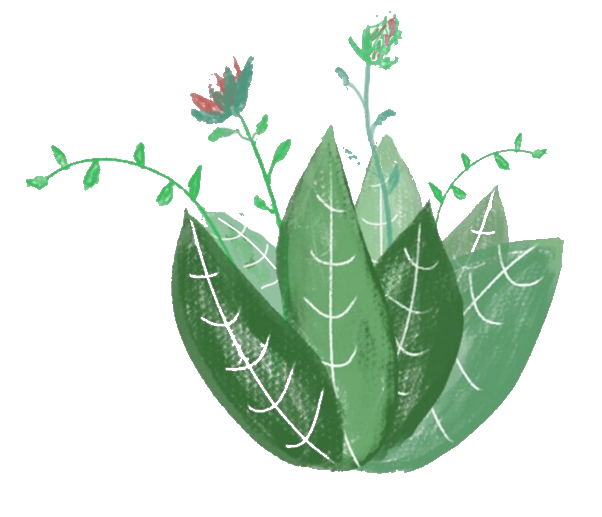
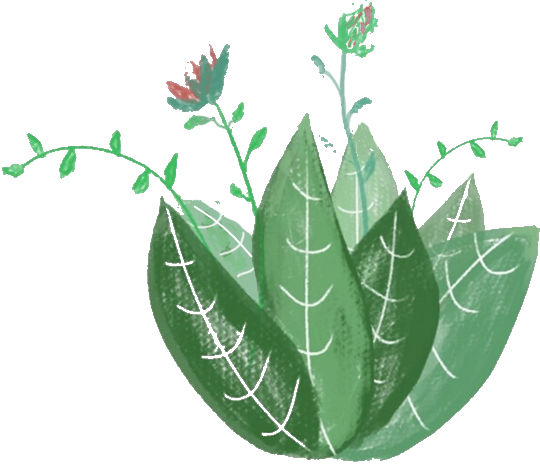
fix plant

Changed region(s): [[0.0, 0.0, 1.0, 0.9914]]

diff --git a/ressources/js/script.js b/ressources/js/script.js
@@ -48,6 +48,10 @@ let buttonResize = document.getElementById('modeButtonResize');
 let buttonErase = document.getElementById('modeButtonErase');
 let buttonEdit = document.getElementById('modeButtonEdit');
 
+// Récupération des plantes
+let plant1 = document.querySelector('.plantDiv1');
+let plant2 = document.querySelector('.plantDiv2');
+
 // Je met les boutons dans un tableau pour factoriser
 let buttonArray = [buttonDrag, buttonResize, buttonErase, buttonEdit];
 
@@ -171,6 +175,10 @@ class Postit {
     // Fonction déplacer ou redimensionner post-it
     // lorsque le click est enfoncé
     startDrag(e) {
+            plant1.style.zIndex = 0;
+            plant2.style.zIndex = 0;
+            plant1.style.opacity = 0.7;
+            plant2.style.opacity = 0.7;
             // Si le mode déplacer est enclenché
             if (dragMode) {
                 // Je passe la div en mode déplacement possible
@@ -225,6 +233,10 @@ class Postit {
         // fonction déplacer ou redimensionner post-it
         // lorsque le click est relaché
     stopDrag(e) {
+            plant1.style.zIndex = 20000;
+            plant2.style.zIndex = 20000;
+            plant1.style.opacity = 1;
+            plant2.style.opacity = 1;
             searchMax();
             // Si le mode déplacer est enclenché
             if (dragMode) {

diff --git a/ressources/css/style.css b/ressources/css/style.css
@@ -455,6 +455,12 @@ footer p {
             left: 90vw;
         }
     }
+    .plantDiv1 {
+        left: -300px;
+    }
+    .plantDiv2 {
+        right: -250px;
+    }
 }
 
 @media (max-width:1300px) {
@@ -479,12 +485,6 @@ footer p {
         100% {
             left: 90vw;
         }
-    }
-    .plantDiv1 {
-        left: -250px;
-    }
-    .plantDiv2 {
-        right: -250px;
     }
 }
 

diff --git a/index.html b/index.html
@@ -26,7 +26,7 @@
             <img class="plant" src="./ressources/Images/plant.png">
         </div>
         <div class="plantDiv2">
-            <img class="plant" src="./ressources/Images/plant.png">
+            <img class="plant" src="./ressources/Images/plant2.png">
         </div>
         <aside id="asideBar">
             <div class="colors">
